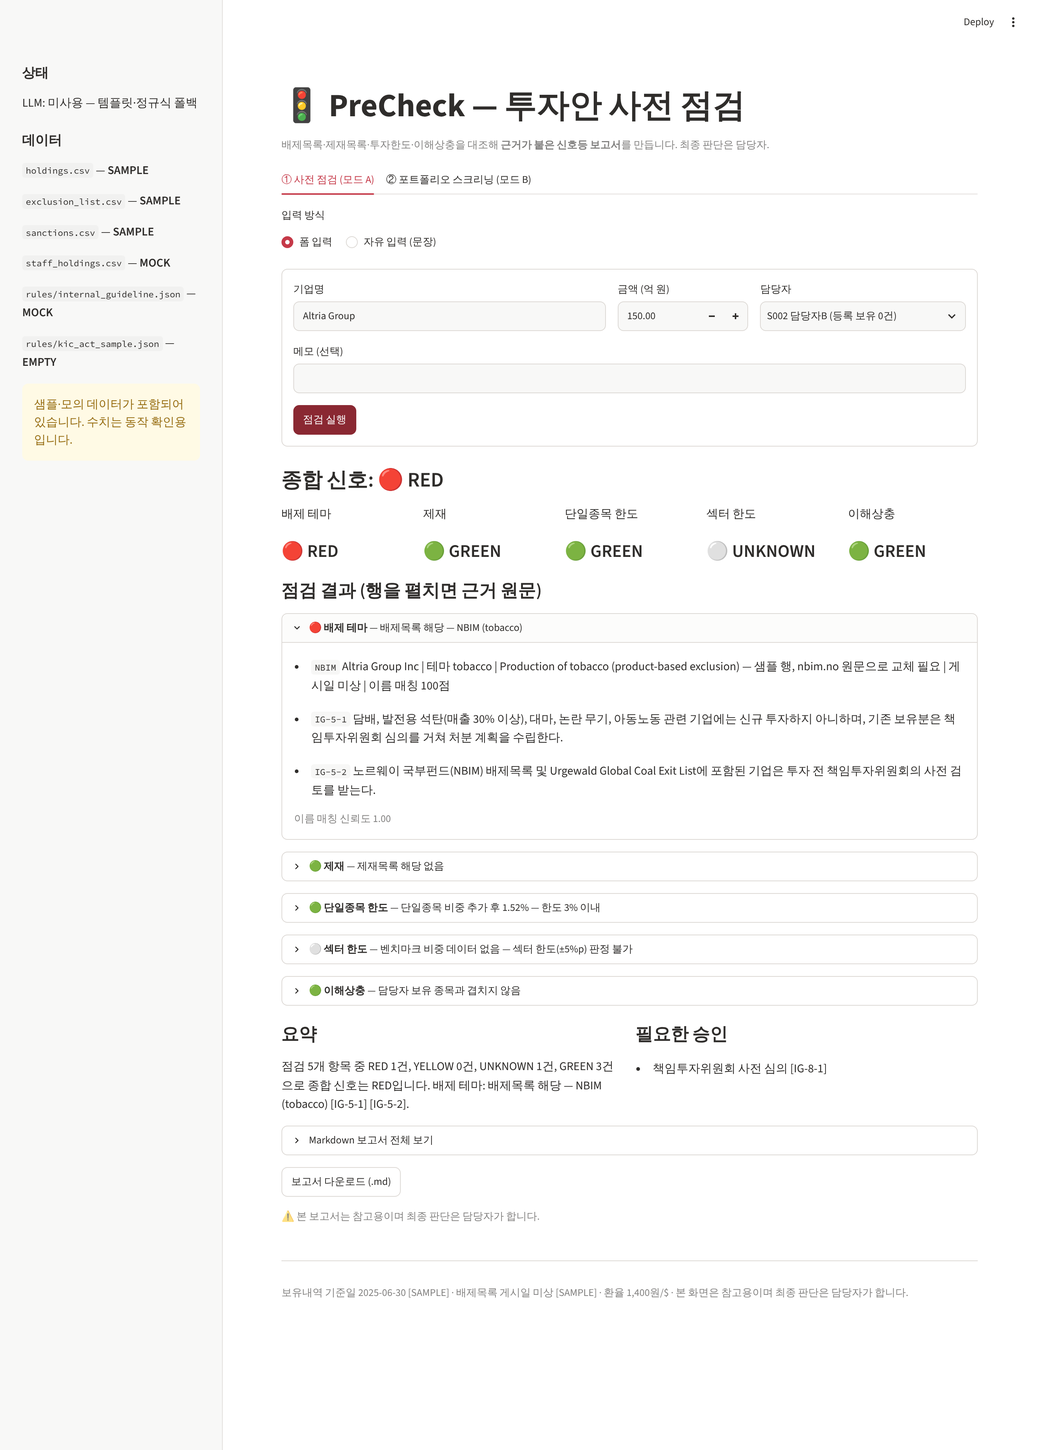
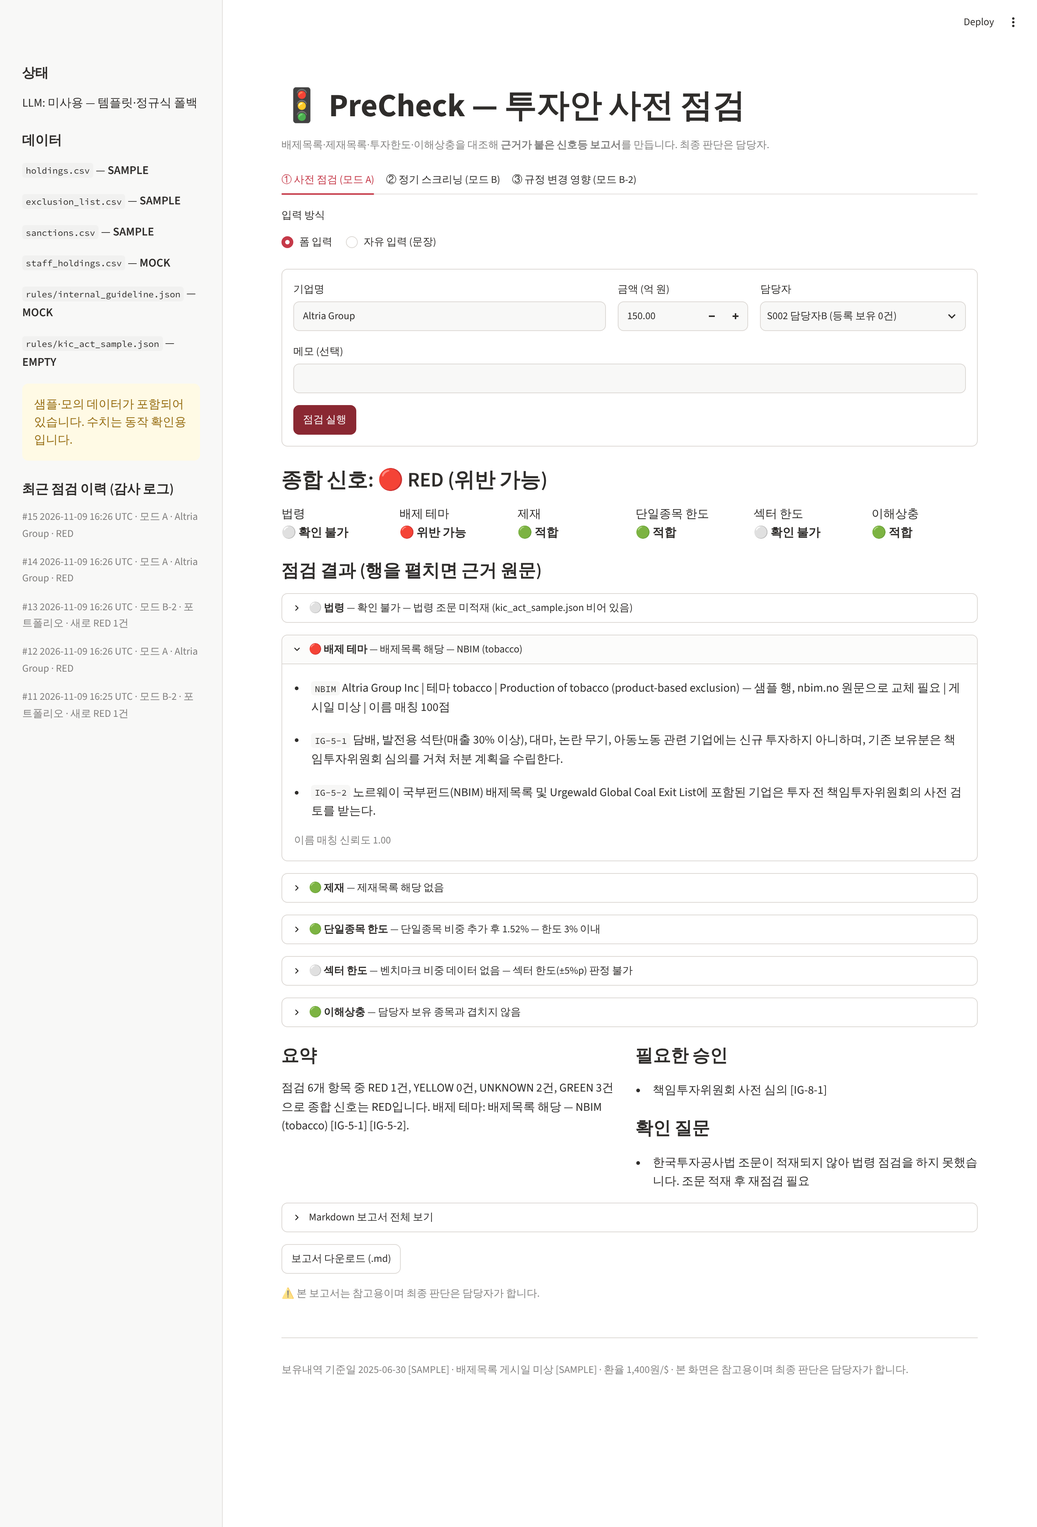
docs: 기획서 v1 검토 결과, v1↔MVP 대응표, 스크린샷 갱신
Claude-Session: https://claude.ai/code/session_015f6iUstPpaNT4Zyryqzyxm

diff --git a/docs/PROPOSAL_GUIDE.md b/docs/PROPOSAL_GUIDE.md
@@ -5,6 +5,48 @@
 
 ---
 
+## ★ 기획서 v1 검토 결과 (v1 PDF + 쉬운 설명 PDF 대조)
+
+**결론: 구조·주장은 MVP와 같은 방향이고 양식도 다 채웠습니다.** 아래만 고치면 됩니다.
+MVP 쪽은 v1에 맞춰 이미 고쳤습니다(6개 점검 항목, 병렬 실행, 모드 B 한도 점검, 모드 B-2, 감사 로그, "확인 불가" 표시).
+
+### A. 사실관계 — 꼭 고칠 것
+| 위치 | 지금 | 이렇게 | 이유 |
+|---|---|---|---|
+| ⑤ 데이터 표 Urgewald 행 비고 | "1.26조 지적의 기준 목록" | "2021년 국감 지적(석탄 16곳)의 근거 목록" | 2025년 1.26조 지적은 KIC 제출 자료·SEC 공시 분석 + NBIM 비교. Urgewald 목록을 근거로 쓴 건 2021년 장혜영 의원 자료 |
+| ⑤ 하단 "핵심" 문장 | "1.26조 지적의 근거가 된 KIC 13F 공시와 Urgewald·NBIM 목록이 모두 공개" | "1.26조 지적의 근거인 KIC 13F 공시, 비교 기준인 NBIM 배제목록, 2021년 지적에 쓰인 Urgewald 목록이 모두 공개" | 위와 같음 |
+| 쉬운 설명 3쪽 Urgewald 행 | "국감 1.26조 지적의 근거 자료" | "2021년 국감 지적의 근거 자료" | 위와 같음 |
+| ① 금액 + 부록 출처 | 숫자는 1조 2,600억, 출처는 조세금융신문(제목이 "1.3조원") | 출처에 **일간투데이**(1조 2,600억) 추가, 또는 "약 1.26조 원(보도에 따라 1.3조)" | 보도마다 8.75억 달러 / 9억 달러로 다름. 숫자와 출처 제목이 어긋나면 상호평가에서 바로 보임 |
+
+확인된 것(그대로 둬도 됨): 2025년 국감 시기 기재위 김영진 의원실 자료 / 담배·석탄 1조 2,600억 원(8.75억 달러) / 석탄 19곳 중 12곳 NBIM 배제 / 2021년 석탄 16곳 약 5,000억 원(3.59억 달러) / 보도에 필립모리스·알트리아가 투자처로 언급됨.
+
+### B. 근거 없는 단정 — 완화 권장
+| 위치 | 지금 | 이렇게 |
+|---|---|---|
+| ② 차별점 | "기존 OMS 컴플라이언스 모듈이 못 하는 영역" | "규칙 기반 모듈은 사람이 규칙을 코드로 옮겨야 하는 영역" (업계 심사위원이 반박할 수 있는 단정 피하기) |
+| ⑦ 시간 | "투자안당 수 시간~수일" | "(추정)" 표기, 또는 삭제. 대신 "프로토타입 실측: 1건 1초 미만(LLM 미사용), 보유 77종목 일괄 약 1초 — 샘플 데이터 기준" |
+
+### C. MVP와 표현 맞추기
+| 위치 | 지금 | 이렇게 |
+|---|---|---|
+| ② 입력→출력 범례 | ●적합 ●확인 ●위반 | 🟢적합 🟡확인 필요 🔴**위반 가능** ⚪확인 불가 — "판정하지 않는다"는 문장과 맞춤. MVP 화면도 이 표현 |
+| ④ 근거 검증 패스 | "실패 시 '확인 필요'로 강등" | "실패 시 AI 문장을 버리고 코드 생성 요약으로 대체(대체 사실을 보고서에 표시)" — MVP 실제 동작 |
+| ⑥ MVP 범위 | 계획만 있음 | **"첫 버전 프로토타입 동작 중: 모드 A·B·B-2, 6개 점검, 근거 검증, 감사 로그, 자동 테스트 59개"** 한 줄 + 화면 캡처 1장 → 실현 가능성 점수에 가장 직접적 |
+| 쉬운 설명 2·5쪽 | "AI는 2곳"인데 그림은 ①②⑥ 세 곳이 AI | "본선 설계는 3곳(입력 해석·규정 해석·보고서), 첫 버전은 2곳(①⑥)"으로 통일 |
+| 쉬운 설명 5쪽 그림 | "팀원 6명"인데 그림엔 ②~⑥ 다섯 상자 | ① 입력 정규화 상자를 따로 그리거나, 문구를 기획서 ③ 그림(①~⑥)과 맞추기 |
+| 쉬운 설명 7쪽 | "13F에 알트리아가 진짜 있어? 확인 필요" | "2025년 보도에 알트리아·필립모리스가 투자처로 언급됨. 최신 13F 원문 확인은 여전히 필요" |
+
+### D. 부록 보완
+- 오픈소스에 **rapidfuzz(MIT), pydantic(MIT), anthropic SDK(MIT)** 추가 — 프로토타입에서 실제로 씀.
+- OpenSanctions "{라이선스 확인 후 기재}" → 공식 사이트에서 확인해 기재(비상업 무료·상업 별도 라이선스 구조로 알려져 있음).
+- yfinance는 Apache 2.0이지만 **야후 데이터 자체는 야후 이용약관** 적용 — "연구·비상업 목적" 한 마디.
+- **AI 활용 내역**: "본선 개발 예정"만 있음 → 프로토타입을 이미 AI 코딩 도구로 만들었으므로 행 추가: "프로토타입 코드·테스트·샘플 데이터 생성 | Claude Code(모델명) | 단계별 명세 문서를 주고 생성, 팀이 실행·검증". 모델명 칸 `{모델명}`도 채울 것.
+
+### E. 참고 — 쓰면 강해지는 소재 (원문 확인 후)
+- 2026년 10월 보도(뉴데일리)에 KIC가 석탄 매출 배제 기준을 **50% → 30%로 강화**했다는 내용이 있음. 사실이면 "기준이 바뀌었을 때 영향 종목을 바로 보여주는 모드 B-2가 지금 필요한 이유"가 됨. 검색 결과끼리 엇갈려서 원문 확인 필수.
+
+---
+
 ## 0. 먼저 확인할 것 (제출 전 공식 페이지에서 반드시 재확인)
 
 | 항목 | 확인된 내용 | 출처 신뢰도 |
@@ -38,19 +80,19 @@
 | (2차) 내부 규정을 저장해두고 AI가 필요할 때 조회 | 조문 단위 JSON + `rules.get_rule` | ✅ |
 | (2차) KIC가 ESG 배제 원칙을 어겼다는 보도 | `screening.exclusion` + 모드 B 포트폴리오 스크리닝 | ✅ 시나리오 3 |
 | (한 줄 결론) 담당자와 최종 결정자만 남기고 중간 절차를 AI가 | 판정은 코드, 최종 판단은 사람(고지문) | ✅ |
-| (3차) **관련 법률 위반 여부** | 구조는 있음(`ACT-` 조문 ID), 조문 데이터가 비어 있음 | ⚠ 법령 원문 입력 필요 |
+| (3차) **관련 법률 위반 여부** | 법령 점검 항목 있음. 조문 데이터가 비어 있어 ⚪"확인 불가"로 표시 | ⚠ 법령 원문 입력 필요 |
 | (3차) **미공개 중요정보 관련 문제** | 없음 | ⚠ 기획서에 "확인 질문 + 거래제한(Restricted) 목록 대조"로 추가 권장 |
 | (3차) **위탁기관 투자 지침 충족** | 없음 (내부 지침만) | ⚠ "위탁기관 지침도 같은 조문 DB에 카테고리로 추가"라고 쓰면 됨 |
 | (3차) **필요한 승인·검토 절차를 거쳤는지** | "안내"만 함, 거쳤는지 "확인"은 안 함 | ⚠ 확장(결재 시스템 연동)으로 서술 |
-| (1차) 운용 상태를 주기적으로 돌려 비율 초과를 잡기 | 모드 B는 배제·제재만 보고 **한도는 안 봄** | ⚠ 쉽게 추가 가능 — 기획서엔 "분기별 자동 점검"으로 |
+| (1차) 운용 상태를 주기적으로 돌려 비율 초과를 잡기 | 모드 B가 배제·제재 + 단일종목 한도까지 점검 | ✅ |
 | (1차) 주식에 한정할 필요 없음(사모·대체·부동산) | 상장주식만 | ➖ 범위 밖 → ⑦ 확장성으로 |
 | (1차) 역할별 에이전트가 토론하는 멀티 에이전트 | 채택 안 함 | ➖ 이유를 설명할 수 있으면 오히려 강점 (아래 Q&A) |
 
 ### 우리 문서에서 고쳐야 할 표현 (사실 확인 결과)
 
-1. **"2025년 국감에서 지적" → "2025년 10월, 국회 기획재정위원회 김영진 의원실이 KIC 제출 자료와 SEC 공시를 분석해 공개"** 로 쓰는 게 정확합니다. 보도 내용: KIC가 자체 투자배제 테마(담배·석탄·대마·논란 무기·아동노동)인 **담배·석탄 기업에 약 1조 2,600억 원(8억 7,500만 달러)** 투자, 담배 투자는 2021년 12월 2,454만 달러 → 2025년 6월 2억 9,130만 달러로 증가.
+1. **"2025년 국감에서 지적"** — 언론도 "[국감]"으로 보도했으므로 그대로 써도 됩니다. 출처 줄에 "기재위 김영진 의원실 자료(KIC 제출 자료·SEC 공시 분석)"를 밝히면 충분 (v1은 이미 그렇게 함). 보도 내용: KIC가 자체 투자배제 테마(담배·석탄·대마·논란 무기·아동노동)인 **담배·석탄 기업에 약 1조 2,600억 원(8억 7,500만 달러)** 투자, 담배 투자는 2021년 12월 2,454만 달러 → 2025년 6월 2억 9,130만 달러로 증가.
    → 기사 원문을 열어 숫자를 직접 확인하고 부록에 출처로 넣을 것.
-2. **"알트리아가 지적된 바로 그 기업"** — 보도에서 특정 기업명이 나왔는지는 확인하지 못했습니다. 원문 확인 전에는 "담배 업종 대표 기업"으로만 표현.
+2. **알트리아** — 2025년 보도(한경·일간투데이)에 필립모리스·알트리아가 투자처로 언급됩니다. 데모 멘트에 써도 되지만, 최신 13F에 실제로 있는지는 데이터 교체 때 확인.
 3. **석탄 기준**: 보도에 따르면 KIC는 석탄 매출 **50%** 이상 기업을 배제(NBIM은 30%). 우리 모의 지침 `IG-5-1`은 **30%**. → 기획서에 "모의 지침은 NBIM 수준(30%)으로 강화한 가정"이라고 밝히거나, 이 차이를 **"기준을 바꾸면 영향받는 종목을 바로 보여주는 기능"(확장성)** 의 소재로 쓰기. (2026년 국감에서 KIC가 기준을 강화했다는 보도는 검색으로 확인되지 않음 — 쓰려면 원문 확인 필수)
 4. **단일 종목 한도**: 1차 회의는 "5%", MVP 모의 지침은 "3%". 기획서 전체에서 하나로 통일.
 5. **"1.26조를 재현했다"** — 아직 실데이터로 돌리지 않았으므로 예선 기획서에는 **"공개 데이터(13F + 공개 배제목록)만으로 재현 가능함을 본선에서 검증"** 으로 쓸 것.
@@ -183,7 +225,7 @@
 
 초안
 - **이미 동작하는 프로토타입이 있음** ← 가장 큰 강점. 화면 캡처 2장(시나리오 1·2) 넣기
-  - 점검 4종 + 보고서 + 모드 B + Streamlit 화면 + 자동 테스트 49개 (샘플 데이터 기준)
+  - 6개 점검 + 보고서 + 모드 B·B-2 + 감사 로그 + Streamlit 화면 + 자동 테스트 59개 (샘플 데이터 기준)
 - **범위**: 상장주식 단일 투자안(모드 A) + 포트폴리오 스크리닝(모드 B). 사모·대체·부동산은 제외
 - **스택**: Python, pandas, pydantic, rapidfuzz, Streamlit, Anthropic SDK, GitHub
 - **본선 일정(예시 — 본선 기간에 맞춰 조정)**
@@ -233,7 +275,7 @@
 | 질문 | 답 |
 |---|---|
 | 이거 에이전트 맞나? 규칙 엔진 아닌가? | 규정 준수는 "같은 입력에 같은 판정"이 필수라서 **판정은 도구(코드)에 맡기고**, Agent는 입력 해석·계획·도구 실행·검증·질문을 담당하도록 설계. 정보가 부족하면 스스로 멈추고 묻고, 요약이 틀리면 스스로 고쳐 씀 |
-| 왜 멀티 에이전트 토론 구조가 아닌가? | 컴플라이언스에서 에이전트끼리 토론해 결론이 바뀌면 재현성·설명 책임이 떨어짐. 대신 점검 도구를 독립적으로 두고 결과를 규칙으로 합침 |
+| 멀티 에이전트인데 왜 토론 구조가 아닌가? | 역할 분담형이다. 오케스트레이터가 ①~⑥ 서브에이전트에 일을 나눠 병렬로 돌리고 결과를 규칙으로 합친다. 에이전트끼리 토론해 결론이 바뀌면 재현성·설명 책임이 떨어지기 때문 |
 | LLM이 틀리면? | LLM은 판정을 못 바꿈. 요약에 없는 조항·숫자가 나오면 자동 차단 |
 | 내부 지침은 비공개인데 어떻게? | 공개된 NBIM·국민연금 지침을 참고해 모의 작성. 실제 도입 시 조문 파일만 교체 |
 | 1.26조 지적이랑 무슨 관계? | 같은 공개 데이터(13F + 공개 배제목록)로 분기마다 돌렸다면 사전에 보였을 숫자 → 모드 B (본선에서 실데이터로 검증) |
@@ -247,7 +289,7 @@
 
 1. **(기획서)** ⚠ 표현 수정 5가지(1절) — 사실관계 오류는 상호평가·전문가 평가 모두에서 감점 요인
 2. **(기획서)** ③에 자율 범위표·종료 조건 — 배점 1위 항목의 양식 요구 그대로
-3. **(코드, 30분)** 모드 B에 단일종목 한도 점검 추가 → 1차 회의 "주기적으로 비율 초과 잡기" 충족
+3. ~~(코드) 모드 B에 단일종목 한도 점검 추가~~ → 완료
 4. **(코드, 30분)** 미공개 중요정보 확인 질문 + 거래제한 목록 대조 → 3차 회의 항목 충족
 5. **(본선)** 실데이터 교체, 법령 조문 입력, LangGraph 이관, 데모 배포
 

diff --git a/docs/ARCHITECTURE.md b/docs/ARCHITECTURE.md
@@ -1,28 +1,30 @@
 # 구조 설명 — 코드 읽는 법
 
-전체 약 1,250줄. 아래 순서대로 읽으면 하루 안에 전부 이해할 수 있게 짰습니다.
+전체 약 1,500줄. 아래 순서대로 읽으면 하루 안에 전부 이해할 수 있게 짰습니다.
+번호 ①~⑥은 **기획서 v1의 ③ Workflow 그림 번호와 같습니다.**
 
 ## 1. 큰 그림
 
 ```
-                       ┌──────────── LLM 사용 ────────────┐
- "Altria에 150억,      │                                  │
-  담당자 S001"  ──▶ ① intake ──▶ Proposal                 │
-                                   │                      │
-            ┌──────────────────────┼──────────────────┐   │
-            ▼                      ▼                  ▼   │
-     ③ screening             ④ limits           ⑤ conflicts   ← 전부 순수 코드 (LLM 금지)
-     exclusion / sanctions   single / sector    check
-            │                      │                  │
-            └────────── CheckResult × 5 ──────────────┘
-                                   │
-                                   ▼
-                              ⑥ report.build ──▶ Report ──▶ to_markdown / Streamlit
-                       (overall·승인·질문 = 코드, summary = LLM → 코드가 검증)
+ "Altria에 150억,        ┌─────── 오케스트레이터 (orchestrator.py) ───────┐
+  담당자 S001" ──▶ ① intake(LLM) ──▶ Proposal  ── 필수값 누락? → 질문하고 멈춤
+                                         │
+          ┌──────────────┬───────────────┼───────────────┬───────────────┐   ← 병렬 실행
+          ▼              ▼               ▼               ▼               ▼
+     ② rules.check  ③ screening     ④ limits        ④ limits       ⑤ conflicts
+        (법령)       배제·제재       단일종목        섹터            이해상충
+          └──────────────┴──────── CheckResult × 6 ──────┴───────────────┘
+                                         │      (점검이 오류로 죽으면 → 🟡 "확인 불가" 로 표시)
+                                         ▼
+                ⑥ report.build ── overall·승인·질문 = 코드 / summary = LLM → 코드가 검증
+                                         │
+                                         ▼
+                      Report ──▶ 화면·Markdown  +  audit.log (감사 로그, SQLite)
 ```
 
 - **모드 A** (`orchestrator.py`): 위 흐름을 투자안 1건에 대해 한 번.
-- **모드 B** (`batch.py`): 보유 종목 하나하나를 "금액 0원짜리 투자안"으로 보고 ③만 반복. 새 로직 없음.
+- **모드 B** (`batch.py`): 보유 종목 하나하나를 "금액 0원짜리 투자안"으로 보고 ③·④(단일종목)를 반복. 새 로직 없음.
+- **모드 B-2** (`impact.py`): 새 목록(CSV) 또는 공지 문서(LLM이 기업명 추출)를 받아, 기존 목록에 없던 기업만 보유내역과 대조 → "새로 RED가 된 종목·금액".
 
 ## 2. 읽는 순서
 
@@ -38,7 +40,8 @@
 | 8 | `precheck/report.py` | `decide_overall` → `validate_summary` → `make_summary` → `build` 순서로. **환각 차단 로직**이 여기 있습니다. |
 | 9 | `precheck/llm.py` | LLM 호출 단일 창구. 실패하면 `None` → 호출한 쪽이 폴백. |
 | 10 | `precheck/intake.py` | 자유 입력 → `Proposal`. LLM 추출과 정규식 폴백. |
-| 11 | `precheck/orchestrator.py`, `batch.py`, `app.py` | 위 부품을 조립만 합니다. |
+| 11 | `precheck/orchestrator.py`, `batch.py`, `impact.py`, `app.py` | 위 부품을 조립만 합니다. `orchestrator._safe`(오류를 숨기지 않는 법)와 `impact.run`(목록 차이 계산)만 눈여겨보면 됩니다. |
+| 12 | `precheck/audit.py` | 감사 로그. 점검마다 시각·입력·결과·데이터 버전을 SQLite 한 줄로. |
 
 ## 3. 설계 포인트 (발표 때 질문 받을 만한 것)
 
@@ -73,10 +76,26 @@
 | `rules.py` | Step 4 | Step 2에서 먼저 작성 | screening이 조문 근거를 붙이려면 필요 |
 | 요약 검증 | 존재하는 조문인지 | + 이번 점검 근거에 쓰인 조문인지 | 실존하지만 무관한 조항 인용도 차단 |
 | 데이터 출처 | 각 CSV의 날짜 컬럼 | `manifest.json` 추가 | 샘플/실데이터 구분을 보고서에 표시 |
-| `law` 점검 | (선택) | 미구현 | `kic_act_sample.json`이 비어 있음. 채우면 `orchestrator.run_checks`에 추가 |
+| `law` 점검 | (선택) | 구현 — 조문이 비어 있으면 ⚪ "확인 불가" | 기획서 6개 항목에 맞춤. 침묵 실패 금지 |
+| 점검 오류 | (없음) | 🟡 "확인 불가 — 사람 확인 필요" | ⚪로 두면 종합이 🟢가 될 수 있어서 |
 | CLI `--staff` | DoD 예시엔 없음 | 필수 | 02번 명세상 담당자는 필수값 → 없으면 질문하고 중단 |
 
-## 5. 확장할 때 손댈 곳
+## 5. 기획서 v1과의 관계 — 지금 MVP(첫 버전)와 본선 목표
+
+| 기획서 v1 | 지금 MVP | 본선에서 할 일 |
+|---|---|---|
+| 오케스트레이터 + 서브에이전트 ①~⑥, ②~⑤ 병렬 | 같은 구조, Python 함수 + 스레드 병렬 | LangGraph 그래프로 이관 |
+| LLM 사용처: ①입력 해석 ②규정 해석 ⑥요약 | ①과 ⑥만. ②는 카테고리 검색(코드) | ② RAG(ChromaDB) + LLM 해석 추가 |
+| 6개 점검 항목 (법령·지침·한도·배제·제재·이해상충) | 법령·배제·제재·한도(단일·섹터)·이해상충. 내부 지침은 각 점검의 근거 조문(IG-x-x)으로 | 위탁기관 지침을 조문 DB에 추가 |
+| 모드 B: 보유 전체에 ③④ | ✅ | 실데이터(13F) |
+| 모드 B-2: 문서 투입 → 영향 종목 | ✅ CSV / 문서(LLM, 키 필요) | 실제 GCEL 연도별 목록으로 시연 |
+| 근거 검증: 재생성 2회 → 실패 시 강등 | 재생성 2회 → 실패 시 **코드 생성 요약으로 대체 + 대체 사실 표시** | — |
+| 외부 API 3회 재시도 → "확인 불가" | LLM: SDK 재시도 3회 → 폴백 / 점검 오류 → "확인 불가" | OpenSanctions·GLEIF API 연결 시 동일 원칙 |
+| 감사 로그 / 장기 메모리(SQLite) | ✅ `output/audit.db` (점검 이력) | 담당자 보유내역도 DB로 |
+| 기업 식별 LEI(GLEIF) | 보유내역(13F 이름·티커) 매칭 | GLEIF API |
+| 제재 OpenSanctions(OFAC·UN·EU) | OFAC SDN CSV 발췌 | OpenSanctions |
+
+## 6. 확장할 때 손댈 곳
 - **실데이터 교체**: `data/` 파일만 바꾸고 `manifest.json` 갱신. 코드 수정 불필요.
 - **섹터 한도 판정**: `limits.sector()`의 TODO — 벤치마크 섹터 비중 CSV를 추가해 ±5%p 비교.
 - **새 점검 항목**: `CheckResult`를 돌려주는 함수를 만들고 `orchestrator.run_checks`에 한 줄 추가. `check_id`는 `schemas.py`의 Literal에도 추가.

diff --git a/README.md b/README.md
@@ -1,7 +1,13 @@
 # PreCheck — 투자안 사전 점검 에이전트 (MVP)
 
-투자안(기업·금액·담당자)을 넣으면 **배제목록·제재목록·투자한도·이해상충**을 대조해
+투자안(기업·금액·담당자)을 넣으면 **법령·배제목록·제재목록·투자한도·이해상충**을 대조해
 **근거가 붙은 신호등 보고서 1장**을 만듭니다. 최종 판단은 사람이 합니다.
+
+| 모드 | 하는 일 |
+|---|---|
+| A. 사전 점검 | 투자안 1건 → 6개 항목 병렬 점검 → 신호등 보고서 (🟢적합 🟡확인 필요 🔴위반 가능 ⚪확인 불가) |
+| B. 정기 스크리닝 | 보유 종목 전체를 배제·제재 목록, 단일종목 한도와 다시 대조 |
+| B-2. 규정 변경 영향 | 새 목록(CSV)·공지 문서를 넣으면 보유 종목 중 새로 걸리는 종목 산출 |
 
 > ⚠ 지금 `data/`에 든 데이터는 **샘플·모의 데이터**입니다. 발표 전에 [data/README.md](data/README.md)를 보고 실데이터로 교체하세요.
 
@@ -29,6 +35,10 @@ python -m precheck.orchestrator --company "Altria Group" --amount 15000000000 --
 python -m precheck.batch
 ```
 
+```bash
+python -m precheck.impact data/samples/new_list_example.csv
+```
+
 담당자를 `S001`(알트리아 보유)로 바꾸면 이해상충 RED가 추가됩니다. 금액은 `--amount 150억`처럼 써도 됩니다.
 자유 입력은 `--text "Altria Group에 150억 투자, 담당자 S001"`.
 
@@ -38,7 +48,7 @@ python -m precheck.batch
 pytest
 ```
 
-API 키 없이(템플릿 폴백) 49개 테스트가 돕니다. 04번 문서 시나리오는 `tests/test_scenarios.py`.
+API 키 없이(템플릿 폴백) 59개 테스트가 돕니다. 04번 문서 시나리오는 `tests/test_scenarios.py`.
 실제 LLM까지 태워 보려면 `.env`에 키를 넣고 `PRECHECK_TEST_LLM=1 pytest`.
 
 ## 구조
@@ -50,17 +60,19 @@ config.py            설정 한 곳 (모델명, 환율, 매칭 임계값, 경로
 precheck/
   schemas.py         데이터 모양 (Proposal → CheckResult → Report)
   data.py            CSV/JSON 로더 + 기업명 정규화·매칭
-  rules.py           ② 규정 조회 (조문 ID 실존 확인)
+  rules.py           ② 규정 조회 + 법령 점검 (조문 ID 실존 확인)
   intake.py          ① 입력 → Proposal          (LLM, 없으면 정규식)
   screening.py       ③ 배제·제재 대조            (코드)
   limits.py          ④ 한도·비중 계산            (코드)
   conflicts.py       ⑤ 이해상충                  (코드)
   report.py          ⑥ 보고서 + 근거 검증        (요약만 LLM)
   llm.py             LLM 호출 단일 창구
-  orchestrator.py    모드 A (투자안 1건)
+  orchestrator.py    모드 A (투자안 1건, 6개 점검 병렬)
   batch.py           모드 B (보유내역 전체)
-app.py               Streamlit 화면
-data/                샘플 데이터 + manifest.json(출처·기준일·샘플 여부)
+  impact.py          모드 B-2 (규정 변경 영향 분석)
+  audit.py           감사 로그 (output/audit.db, SQLite)
+app.py               Streamlit 화면 (탭 3개)
+data/                샘플 데이터 + manifest.json(출처·기준일·샘플 여부) + samples/(B-2 예시, 가상)
 tests/               단계별 테스트 + 시나리오 테스트
 ```
 
